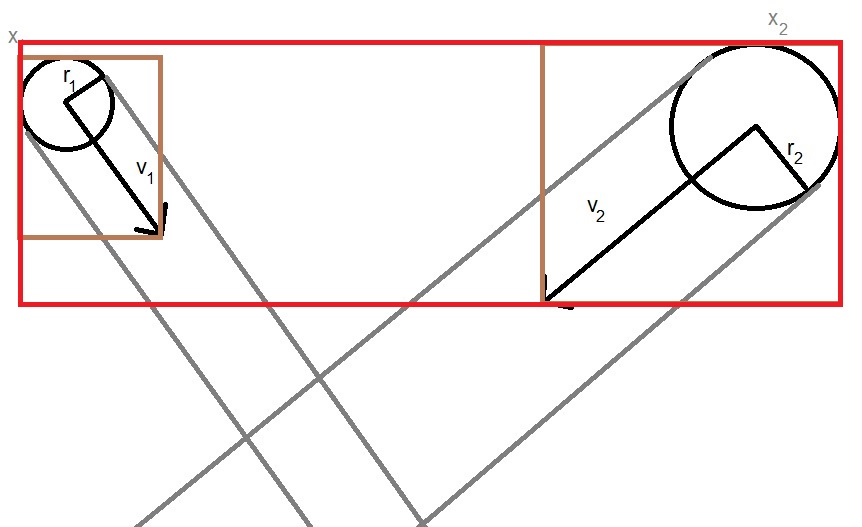
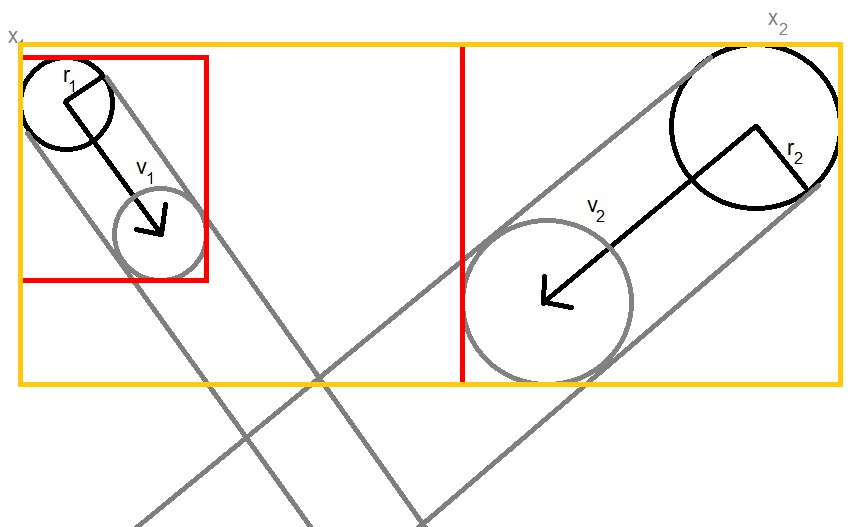
Update barnes hut, en model referenced

Changed region(s): [[0.0, 0.0607, 0.9954, 0.759], [0.6937, 0.4554, 0.7239, 0.5161], [0.6636, 0.425, 0.6937, 0.4554]]

diff --git a/Verslag/BarnesHut/barnes_hut.tex b/Verslag/BarnesHut/barnes_hut.tex
@@ -106,11 +106,9 @@ As one can expect, the precision of the Barnes-Hut algorithm is solely dependent
 \[
 s < d\theta > \frac{d}{\sqrt{D}}
 \]
-Thus, $s$ might be greater than $\frac{d}{\sqrt{D}}$. Suppose this is the case. Noting that the distance between two objects in the same subspace is at most $\sqrt{Ds^2} = s\sqrt{D}$, this implies $s\geq d$. So, the algorithm considers an object in the same subspace as to be sufficient far away. In this case the algorithm lets an object excert force on itself -- strictly forbidden. So $\theta \leq \frac{1}{\sqrt{D}}$ must hold. We will see later that strictly less applies.
+Thus, $s\geq \frac{d}{\sqrt{D}}$ might hold. Suppose this is the case. Noting that the distance between two objects in the same subspace is at most $\sqrt{Ds^2} = s\sqrt{D}$, this implies $s\geq d$. So, the algorithm considers an object in the same subspace as to be sufficient far away. In this case the algorithm lets an object excert force on itself -- strictly forbidden. So $\theta \leq \frac{1}{\sqrt{D}}$ must hold. We will see later that strictly less applies.
 \item Note that the calculated force is always less than or equal to the actual force if the objects are aligned with respect to the object $a$ on which the force is calculated. If the objects are next to each other with respect to $a$ and have the same distance to $a$, however, the calculated force is greater due to the "head-tail" method. Usually, the calculated force is less than the actual force.
-Thus, $s$ might be greater than $\frac{d}{\sqrt{D}}$. Noting that the distance between two objects in the same subspace is at most $\sqrt{Ds^2} = s\sqrt{D}$, which might imply $s\geq d$. So, it might be that the algorithm considers an object in the same subspace as to be sufficient far away. In this case the algorithm lets an object excert force on itself -- strictly forbidden. So $\theta$ must be smaller than $\frac{1}{\sqrt{D}}$. We will see later that strictly smaller applies.
 
-\item Note that the calculated force is always less than or equal to the actual force, if the objects are aligned with respect to the object $a$ on which the force is calculated on. If the objects are next to each other with respect to $a$ and have the same distance to $a$, however, the calculated force is greater due to the "head-tail" method. Usually, the calculated force is less than the actual force.
 \item Consider a subspace represented by a node, that contains two objects. Let $d_1$ be the distance from the considered object to the first object, and let $d_2$ be defined similarly. In addition, let $m_1$ be the mass of the first object and $m_2$ the mass of the second object. Consider the error in the force calculated
 \[
 E(m_1,m_2,d_1,d_2) = \frac{m_1}{d_1^2}+\frac{m_2}{d_2^2}-\frac{m}{d^2}
@@ -173,7 +171,7 @@ and the error reduces to
 \[
 E = \frac{1}{(1+c)(1-\frac{c}{1+c}\Delta d)^2}+\frac{c}{(1+c)(1+\frac{1}{1+c}\Delta d)^2}-1
 \]
-Since we are interested in the supremum of the error, we can take the limit $\Delta d \rightarrow \theta \sqrt{D}$. By remark (1), we may assume $\theta < \sqrt{D}$, and therefore $\Delta d<1$.\\
+Since we are interested in the supremum of the error, we can take the limit $\Delta d \rightarrow \theta \sqrt{D}$. By remark (1), we may assume $\theta < \frac{1}{\sqrt{D}}$, and therefore $\Delta d<1$.\\
 Since $\Delta d$ is now fixed, we can take the derivative of the error to the ratio of mass $c$ in order to determine the supremum of the error given any parameter $\theta$. Instead, we use MATLABs \textit{patternsearch} function. The result for $D=2$ is given in Table \ref{tab:maxerror}.
 \begin{table}[h!]
 \centering
@@ -182,7 +180,7 @@ Since $\Delta d$ is now fixed, we can take the derivative of the error to the ra
 \begin{tabular}{c|c|c}
 $\theta$ & Maximum Value of the Error & $c$\\
 \hline
-$\frac{1}{\sqrt{2}}$ & $\infty$ & $\infty$\\
+$1/\sqrt{2}$ & $\infty$ & $\infty$\\
 $1/2$ & $0.6782$ & $3.4431$\\
 $2/5$ & $0.334$ & $2.4064$\\
 $1/3$ & $0.2068$ & $2.0022$\\
@@ -194,34 +192,51 @@ $1/12$ & $0.0105$ & $1.1712$\\
 $1/16$ & $0.0059$ & $1.1255$ 
 \end{tabular}
 \end{table}\\
-\textbf{Remark.} Despite the theoretically large error, choosing $\theta = \frac{1}{2}$ or even larger usually suffices, as long as $\theta < \frac{1}{\sqrt{2}}$. There are two reasons for this. First, the actual error is much smaller most of the time. Second, the objects on the other side reduce the error. Put more precisely, by remark (2), errors in the calculations of forces exerted by objects on either side of the considered object are subtracted from each other, reducing the total error.
+\textbf{Remark.}
+\begin{enumerate}
+\item Despite the theoretically large error, choosing $\theta = \frac{1}{2}$ or even larger usually suffices, as long as $\theta < \frac{1}{\sqrt{2}}$. There are two reasons for this. First, the actual error is much smaller most of the time. Second, the objects on the other side reduce the error. Put more precisely, by remark (2), errors in the calculations of forces exerted by objects on either side of the considered object are subtracted from each other, reducing the total error. One has to be careful though, as Remark \ref{unstablelongrun} shows.
+\item Note that the measured error is $\orde{\theta^2}$. This is as expected, since if $\theta$ gets halved, $\Delta d$ can only be half as large. By the force formula, the error should be $\orde{\Delta d^2}$. Thus, the error is also $\orde{\theta^2}$.
+\item\label{unstablelongrun} Contrarily to LeapFrog (see section 5), the Barnes-Hut algorithm is unstable in the long run. For a closed system, as in our model, the total momentum should be conserved. As noted in Section \ref{sec:model}, we set the total momentum equal to zero in order to keep the system 'in sight'. However, Table \ref{tab:barneshutmomentum} shows that the momentum is not conserved.
+\begin{table}[H]
+\begin{tabular}{c|c|c}
+$\theta$ & Momentum (x) & Momentum (y)\\
+\hline
+$1/\sqrt{2}$ & $3.12$ & $-68.23$\\
+$1/2$ & $-3.06$ & $3.24$
+\end{tabular}
+\caption{The total momentum after a simulation with $100$ initial celestial bodies over $40000$ years using $\Delta t = 1$ month, for different parameters $\theta$.}
+\label{tab:barneshutmomentum}
+\end{table}
+Table \ref{tab:barneshutmomentum} shows that one has to be careful choosing $\theta$ when running the simulation for a very long time. A large $\theta$ messes up momentum conservation.
+\end{enumerate}
 \subsection{Using the Barnes Hut Tree to Reduce the Number of Collision Tests}
-In the initial model, for every celestial body $i$, we test whether a collision takes place for every celestial body $j>i$. The Barnes Hut tree can be used to reduce the number collision tests in the model. Therefore, for every body $i$, we set a rectangle around the object bounded by it's minimum and maximum position according to the linearized path function $\gamma_i$ (see section 'The Model' for precise details), as follows.
+In the initial model, for every celestial body $i$, we test whether a collision takes place for every celestial body $j>i$. The Barnes Hut tree can be used to reduce the number collision tests in the model. Therefore, for every body $i$, we set a rectangle around the object bounded by it's minimum and maximum position according to the linearized path function $\gamma_i$ (see section \ref{sec:model} for precise details), as follows.
 \[
 \begin{array}{ll}
-\textbf{if } \vec{v}_{i,1} >= 0 &\\
-& x_{max,i} = \vec{x}_{i,1}+r_i+\vec{v}_{i,1}\Delta t\\
-& x_{min,i} = \vec{x}_{i,1}-r_i\\
+\textbf{if } \vec{v}_{i,1} \geq 0 &\\
+& x_{max,i} := \vec{x}_{i,1}+r_i+\vec{v}_{i,1}\Delta t\\
+& x_{min,i} := \vec{x}_{i,1}-r_i\\
 \textbf{else }\\
-& x_{max,i} = \vec{x}_{i,1}+r_i\\
-& x_{min,i} = \vec{x}_{i,1}-r_i+\vec{v}_{i,1}\Delta t\\
-\textbf{if } \vec{v}_{i,2} >= 0 & \\
-& y_{max,i} = \vec{x}_{i,2}+r_i+\vec{v}_{i,2}\Delta t\\
-& y_{min,i} = \vec{x}_{i,2}-r_i\\
+& x_{max,i} := \vec{x}_{i,1}+r_i\\
+& x_{min,i} := \vec{x}_{i,1}-r_i+\vec{v}_{i,1}\Delta t\\
+\textbf{if } \vec{v}_{i,2} \geq 0 & \\
+& y_{max,i} := \vec{x}_{i,2}+r_i+\vec{v}_{i,2}\Delta t\\
+& y_{min,i} := \vec{x}_{i,2}-r_i\\
 \textbf{else } & \\
-& y_{max,i} = \vec{x}_{i,2}+r_i\\
-& y_{min,i} = \vec{x}_{i,2}-r_i+\vec{v}_{i,2}\Delta t\\
+& y_{max,i} := \vec{x}_{i,2}+r_i\\
+& y_{min,i} := \vec{x}_{i,2}-r_i+\vec{v}_{i,2}\Delta t\\
 \end{array}
 \]
 For internal nodes of the tree, we take $x_{max}$ to be the maximum of the $x_{max,i}$ of the objects represented by the node. $x_{min},y_{max},y_{min}$ are defined similarly. Figure \ref{fig:grenzen} illustrates this principle.
 \begin{figure}[H]
   \centering
   \includegraphics[width=0.5\textwidth]{boundaries}
-  \caption{An illustration of two celestial bodies, with the above defined boundaries for the individual bodies (brown) and the node representing the two bodies (red).}
+  \caption{An illustration of two celestial bodies, with the above defined boundaries for the individual bodies (red) and the node representing the two bodies (orange).}
   \label{fig:grenzen}
 \end{figure}
 Similar to the Barnes Hut algorithm with forces, the collision algorithm recursively checks whether the boundaries of the current considered object and the current node overlap; if so, check it's children, if not, move on. After this process a list of bodies is set on which a collision test is performed. Similarly, one can easily check that the number of collision tests reduces to $\orde{N\log(N)}$ when this algorithm is used.\\
-\textbf{Remark.} Note that, in contrast to the force algorithm, the collision algorithm is an exact algorithm -- without loss of precision. That is, it produces the same result as the brute force algorithm. Thus, the collision algorithm doesn't need an extra parameter.
+
+\textbf{Remark.} Note that, in contrast to the force algorithm, the collision algorithm is an exact algorithm -- that is, it produces the same result as the brute force algorithm. Thus, the collision algorithm doesn't need an extra parameter.
 \subsection{Conclusion and Implementation}
 Reducing the number of calculations on Newton's equation can be done with the Barnes Hut algorithm, but not without loss of precision. However, even using a parameter such as $\theta=\frac{1}{2}$ practically suffices for most uses. We chose to use $\theta = \frac{1}{2}$ in our simulations. Since the Barnes Hut tree is built only once per time step, the number of calculations reduces from $\orde{N^2}$ to $\orde{N\log(N)}$.\\
 Furthermore, a variation on the Barnes Hut algorithm can be used to reduce the number of collision tests on any object. This goes without loss of precision and also has order of complexity $\orde{N\log N}$. We implemented this algorithm in our model as well.\\

diff --git a/Verslag/Model/Model.tex b/Verslag/Model/Model.tex
@@ -1,4 +1,4 @@
-\section{The Model}
+\section{The Model}\label{sec:model}
 As mentioned in the introduction, we will be simulating an \(N\)-Body problem including a heavy  object functioning as a star placed in the center of the system. 
 The model will only cover the two-dimensional model.
 The Model uses the LeapFrog integration method to approximate the new movements.
